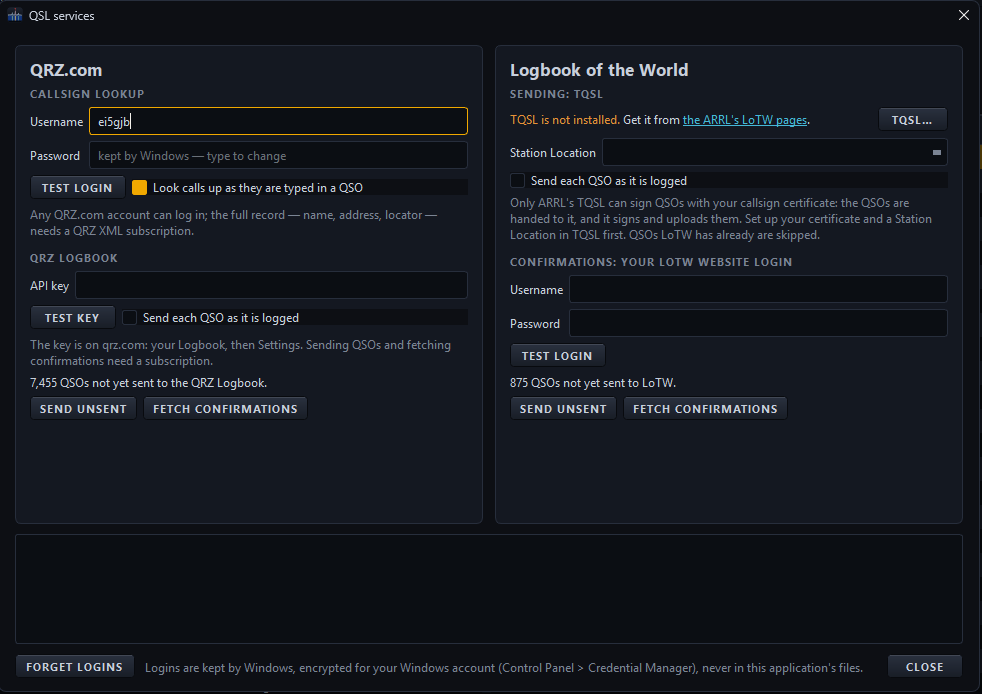
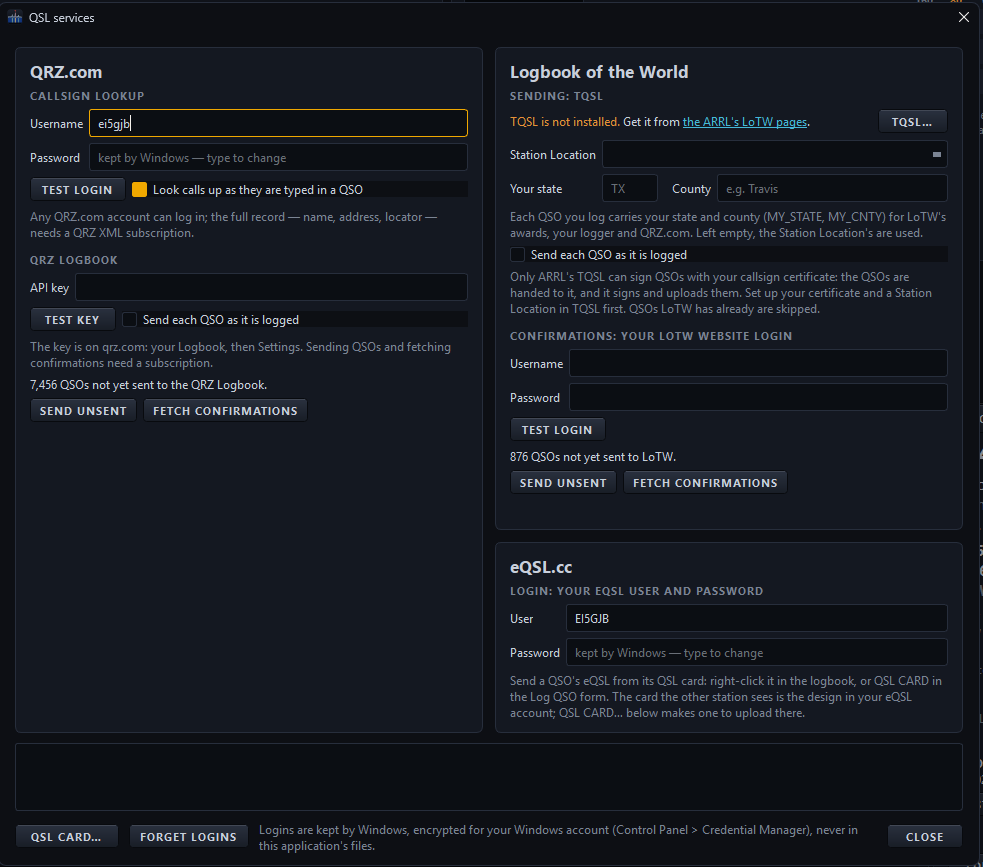
README for 2.4.18: new logbook and Log QSO form, flags, Statistics and Awards, your own QSL card and eQSL, POWER on with KNS On (LAN)

diff --git a/README.md b/README.md
@@ -27,13 +27,21 @@ comes over your network, because the USB serial link is too slow for a
 smooth scope. Or connect over the network alone, and use the radio from
 somewhere else.
 
-> **Version 2.4.17 replaces every earlier release.** Run its installer and it
+> **Version 2.4.18 replaces every earlier release.** Run its installer and it
 > removes the version you have and puts itself in its place: your settings,
 > layouts and logbook are kept. Updates only go forward, so everyone is on
 > the same version. If you use the Remote Relay at home, update that too
 > (see [Remote operation](#remote-operation-experimental)).
 
-**New in 2.4.17:** POWER now switches the radio back on over the network
+**New in 2.4.18:** [a new-look logbook](#the-logbook) that opens ready to
+log and narrows to the call as you type it, with the country's flag beside
+the call. New [Statistics and Awards](#the-logbook) pages with colour charts,
+the DXCC Challenge and 5-Band DXCC. [Design your own QSL card](#your-own-qsl-card)
+with your own photos, then print it or send it to eQSL. And POWER now
+switches the radio on over your home network with the radio's KNS Operation
+set to On (LAN) as well as On (Internet).
+
+**In 2.4.17:** POWER now switches the radio back on over the network
 (it switched it off but not on), and SWL can go on a PF key.
 
 **In 2.4.16:** [CW the way the radio's keyboard does it](#cw-rtty-and-psk31):
@@ -116,7 +124,8 @@ panel.
 
 - [What it does](#what-it-does) · [More of the radio](#more-of-the-radio-from-the-app)
 - [The logbook](#the-logbook) · [Logging a QSO](#logging-a-qso) ·
-  [Contests](#contests) · [QSL services](#qsl-services-qrzcom-and-logbook-of-the-world) ·
+  [Contests](#contests) · [QSL services](#qsl-services-qrzcom-logbook-of-the-world-and-eqsl) ·
+  [Your own QSL card](#your-own-qsl-card) ·
   [Who is hearing me](#who-is-hearing-me-the-psk-map)
 - [The DX cluster](#the-dx-cluster) ·
   [Calls to watch for](#calls-to-watch-for) · [Propagation](#propagation)
@@ -284,14 +293,21 @@ ways, so you can carry on using Log4OM, or any other logger, beside it.
 
 ![The Logbook window](docs/images/logbook.png)
 
-*7,682 QSOs read in from Log4OM: 189 DXCC entities worked and 136
-confirmed. Each filter key along the top shows how many QSOs it holds. The
-card on the right shows the selected QSO in full, where it stands with each
-QSL service, and every earlier QSO with that station.*
+*7,683 QSOs read in from Log4OM: 189 DXCC entities worked and 136
+confirmed. The Log QSO form is across the top, ready for the next QSO, with
+the Station card beside it. Each filter key shows how many QSOs it holds.
+The card on the right shows the selected QSO in full and where it stands
+with each QSL service. The sun and band conditions are along the bottom.*
+
+- **Ready to log.** The Logbook opens with a new QSO in the form. Start
+  typing a call and the list below shows only your QSOs with that station.
+  Clear the call and the whole log comes back.
 
 - **Find any QSO** with the filters: band (Ctrl+click for several), mode,
   QSL status and service, today, the last 7 or 30 days or this year, one
   contest, or a search for a call, name, country or locator.
+- **Choose your columns**: right-click a column heading to show or hide
+  it. The **KM** column shows how far away each station was.
 - **The QSL column** shows four letters, P (paper), L (LoTW), E (eQSL) and
   Q (QRZ.com): dim for nothing yet, outlined for sent, filled for
   confirmed.
@@ -309,26 +325,29 @@ QSL service, and every earlier QSO with that station.*
 | | |
 |---|---|
 | ![Statistics](docs/images/logbook-statistics.png) | ![The map](docs/images/logbook-map.png) |
-| **Statistics**: DXCC worked and confirmed on each band in CW, phone and data, your QSOs year by year, and the countries you have worked most. They follow the filters, so you can see just one band, mode or year. | **The map**: countries shaded green for confirmed, amber for worked, and outlined in red if you still need them. Every place you have worked is a dot, coloured by band, mode or QSL. Click a country to see its QSOs, with the great-circle path from you. |
+| **Statistics**: your QSOs, DXCC worked and confirmed, QSL rate and best day across the top, then colour charts of your QSOs by year, band, mode, continent and hour of the day, DXCC on each band in CW, phone and data, and the countries you have worked most, with their flags. They follow the filters, so you can see just one band, mode or year. | **The map**: countries shaded green for confirmed, amber for worked, and outlined in red if you still need them. Every place you have worked is a dot, coloured by band, mode or QSL. Click a country to see its QSOs, with the great-circle path from you. |
 
 The map is drawn from Natural Earth at 1:10 million, so coasts and small
 islands are shown in detail, and it zooms in far enough to show state and
 county lines.
 
-**The Awards tab** shows how far you have got with DXCC, WAZ (the 40 CQ
-zones), WAS (the 50 US states), WAC (the six continents), WPX, IOTA, and the
-POTA, SOTA and WWFF references in your log. Each is counted as worked and
-confirmed. The zones, states and continents are drawn as grids, green when
+**The Awards tab** shows how far you have got with DXCC, the DXCC
+Challenge, 5-Band DXCC, WAZ (the 40 CQ zones), WAS (the 50 US states), WAC
+(the six continents), WPX, IOTA, and the POTA, SOTA and WWFF references in
+your log. Each has a box across the top with a bar showing how far along you
+are, counted as worked and confirmed. A chart shows your DXCC count on each
+band against the 100 needed. The zones, states and continents are drawn as grids, green when
 confirmed, amber when worked and dark when still needed. The islands and
-parks are listed underneath. Like everything else in the Logbook, the awards
+parks are listed underneath, with the bands you have each one on and when
+you last worked it. Like everything else in the Logbook, the awards
 follow the filters, so 20m and CW gives you WAS on 20 metres CW. If some of
 your US QSOs have no state, it tells you how many, and EDIT lets you add it.
 
 ![The Awards tab](docs/images/logbook-awards.png)
 
-*The Awards tab for 7,685 QSOs: 189 DXCC, 38 of the 40 CQ zones, 39 of the
-50 states and all six continents, with the islands listed underneath.
-Green is confirmed, amber worked, dark still needed.*
+*The Awards tab for 7,683 QSOs: 189 DXCC, 627 for the DXCC Challenge, 38 of
+the 40 CQ zones, 39 of the 50 states and all six continents. DXCC on 20 m is
+past 100 worked. Green is confirmed, amber worked, dark still needed.*
 
 **DUPLICATES** finds QSOs that are in the log more than once: the same
 call, band and kind of mode within ten minutes. Each QSO logged more than
@@ -366,12 +385,11 @@ click a spot, and it opens with the station already in it (see
 
 ![The Log QSO window](docs/images/log-qso-grid.png)
 
-*P40L in Aruba, opened from a spot on 40 m SSB during CQ WW DX, so the
-window asks for the contest exchange. The Station card says it is a new
-band and a first QSO. In the worked-before grid, 40 m phone is framed in
-amber because that is where the radio is, and it is empty: Aruba has never
-been worked there. The blue frames on 20 m and 17 m phone are Aruba worked
-but not confirmed.*
+*The Log QSO form on 80 m SSB. The boxes are on the left in four rows, with
+the Irish flag beside the call. The Station card shows the photo from
+QRZ.com, the locator, distance, bearing and zones, and three earlier QSOs,
+the last in 2010. In the worked-before grid, 80 m phone is framed in amber
+because that is where the radio is.*
 
 - **The worked-before grid** shows the bands against phone, CW and data:
   green for this station, blue for their country, solid when confirmed,
@@ -384,11 +402,20 @@ but not confirmed.*
 - **Parks and summits**: **Activity** and **Ref** are logged as SIG and
   SIG_INFO, and as POTA_REF, SOTA_REF or WWFF_REF too. A park you have never
   worked is marked **NEW POTA**.
+- **The country's flag** appears beside the call as soon as it is
+  recognised.
 - **The Station card** fills in as you type the call: their name, QTH and
-  country, a photo from QRZ.com, how far away they are and the bearing,
-  their zones, and badges for a **new country**, a **new band**, a **first
-  QSO**, and whether they use LoTW or eQSL. The **QRZ** key opens their
-  page in your browser.
+  country, a photo from QRZ.com, and two rows of small boxes: the locator,
+  distance, bearing and zones, then how many QSOs you have had with them,
+  how many are confirmed, and the last and the first. Badges show whether
+  they use LoTW or eQSL, and a line across the top says if they are a **new
+  country**, a **new band** or a **new mode**. The **STATS**, **INFO**,
+  **AWARDS** and **MY** panels are on F1 to F4, and the **QRZ** key opens
+  their page in your browser.
+- **With a rotator**, a Rotor card shows the beam on a compass and turns it
+  to the station, short path or long path, with one click.
+- **QSL CARD** opens the QSL card for the QSO, saved or not (see
+  [Your own QSL card](#your-own-qsl-card)).
 - **The distance says where it came from**: their exact position on
   QRZ.com's map, their locator, an earlier QSO in your log, or one you
   typed. A four-character locator is a large square, and the card says how
@@ -434,15 +461,16 @@ first QSO; a station already worked in the contest would be marked DUPE.*
 | ![Cabrillo](docs/images/cabrillo.png) | ![The contest calendar](docs/images/contest-calendar.png) |
 | **Cabrillo**: choose the contest in the Logbook and press CABRILLO. The header categories offer only what the Cabrillo standard allows, your details are remembered, and the log is shown exactly as it will be written, with a warning for anything missing. A contest's log can also be exported as ADIF. | **The contest calendar**: what is on now, later today and coming up, with the time left. USE sets the Log QSO window up for it, and today's contests are at the top of the contest list. Dates come from each sponsor's rules and from the RSGB Contest Committee's own calendar. |
 
-## QSL services: QRZ.com and Logbook of the World
+## QSL services: QRZ.com, Logbook of the World and eQSL
 
-**QSL SERVICES**, in the Logbook, connects the log to QRZ.com and to the
-ARRL's Logbook of the World.
+**QSL SERVICES**, in the Logbook, connects the log to QRZ.com, to the
+ARRL's Logbook of the World, and to eQSL.cc.
 
 ![QSL services](docs/images/qsl-services.png)
 
-*QRZ.com on the left, Logbook of the World on the right, each with the
-number of QSOs not yet sent.*
+*QRZ.com on the left, Logbook of the World and eQSL.cc on the right, with
+the number of QSOs not yet sent. QSL CARD... at the bottom opens the card
+designer.*
 
 - **QRZ.com callsign lookup** fills in the Log QSO window as you type a
   call. Any account can log in; the full record and photo need a QRZ XML
@@ -452,12 +480,44 @@ number of QSOs not yet sent.*
 - **Logbook of the World**: QSOs are handed to the ARRL's own TQSL, which
   signs and uploads them with your certificate. New confirmations are
   fetched by themselves every six hours.
+- **eQSL.cc**: send a QSO's eQSL from its QSL card with **SEND eQSL**. A
+  QSO eQSL accepts is marked as sent in your log, and it appears in your
+  eQSL Outbox.
 - **Your state and county** go into every QSO (MY_STATE and MY_CNTY), for
   LoTW's WAS and county awards. Left empty, your TQSL Station Location's are
   used, and the window warns if what you typed doesn't match it.
 - **Your logins are kept safe** by Windows' Credential Manager, or in the
   Keychain on a Mac, never in the app's own files.
 - **TQSL** is found by itself in its usual place on Windows and on a Mac.
+
+## Your own QSL card
+
+**QSL CARD...**, in QSL Services, opens a designer for your own QSL card.
+Start from one of four ready-made designs, or a blank card, and make it
+yours.
+
+![The QSL card designer](docs/images/qsl-card-designer.png)
+
+*A card with a photo of the shack across it, the Irish flag, and the QSO
+box filled in for the QSO in the Log QSO form.*
+
+- **Add as many pictures as you like**, and text, shapes, flags and a box
+  with the details of the QSO. Drag them into place with guides to line
+  them up; resize, turn, fade and add shadows; and bring them forward or
+  send them back in the list of layers. **UNDO** and **REDO** work as you'd
+  expect.
+- **Filled in for you**: their call, the date and time, frequency, band,
+  mode and report come from the QSO, whether it is in your log or still in
+  the Log QSO form. Right-click a QSO in the Logbook and choose **QSL card
+  for...**.
+- **Print it**, or save it as a picture or a PDF at its real size, 140 by
+  90 mm.
+- **For eQSL**: **SAVE eQSL PICTURE** saves your design at eQSL's own size,
+  528 by 336 pixels, ready to upload as your card design on eQSL.cc. eQSL
+  draws every card you send on the design in your eQSL account, so upload it
+  there once and every QSO you send shows it.
+- **Keep several designs**, and **EXPORT** one to a file, pictures and all,
+  to share it or keep it safe.
 
 ## Who is hearing me: the PSK map
 
@@ -1261,8 +1321,11 @@ You also need:
   (Silicon Labs CP210x) so its ports show up. On a Mac, if the ports don't
   appear, install the CP210x driver for macOS from Silicon Labs.
 - The radio's CAT speed set to **115200** (menu 7-00).
-- For the bandscope over the network: the radio on your network, and the
-  KNS user name and password set on the radio. Everything else works
+- For the bandscope over the network: the radio on your network, with
+  **KNS Operation** (KNS Menu [0] on the radio) set to **On (LAN)** or **On
+  (Internet)**, and the KNS user name and password set on the radio. To
+  switch the radio on with POWER while you are away from home, choose On
+  (Internet). Everything else works
   without it, just with a slower bandscope over USB.
 - For remote operation: no USB cable on the laptop. The radio on your home
   network with its KNS and built-in VoIP switched on and, from outside your
